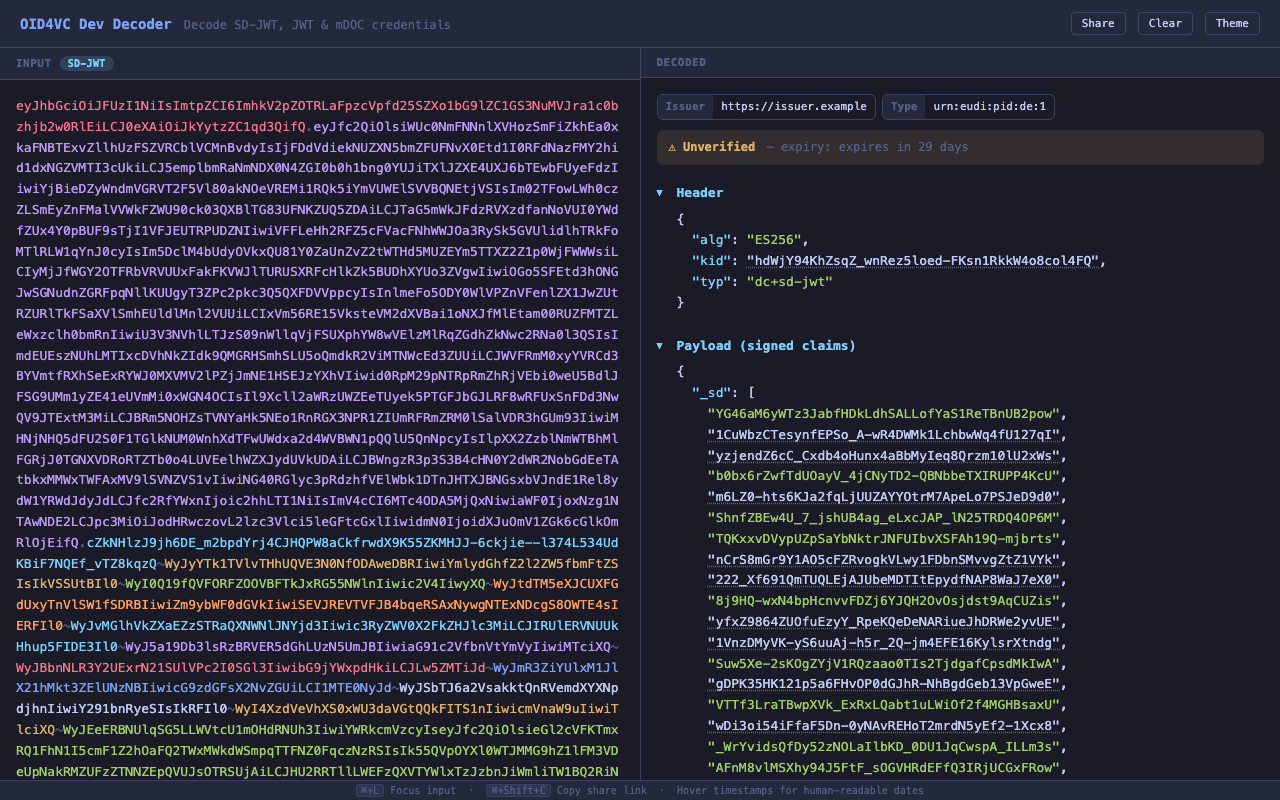
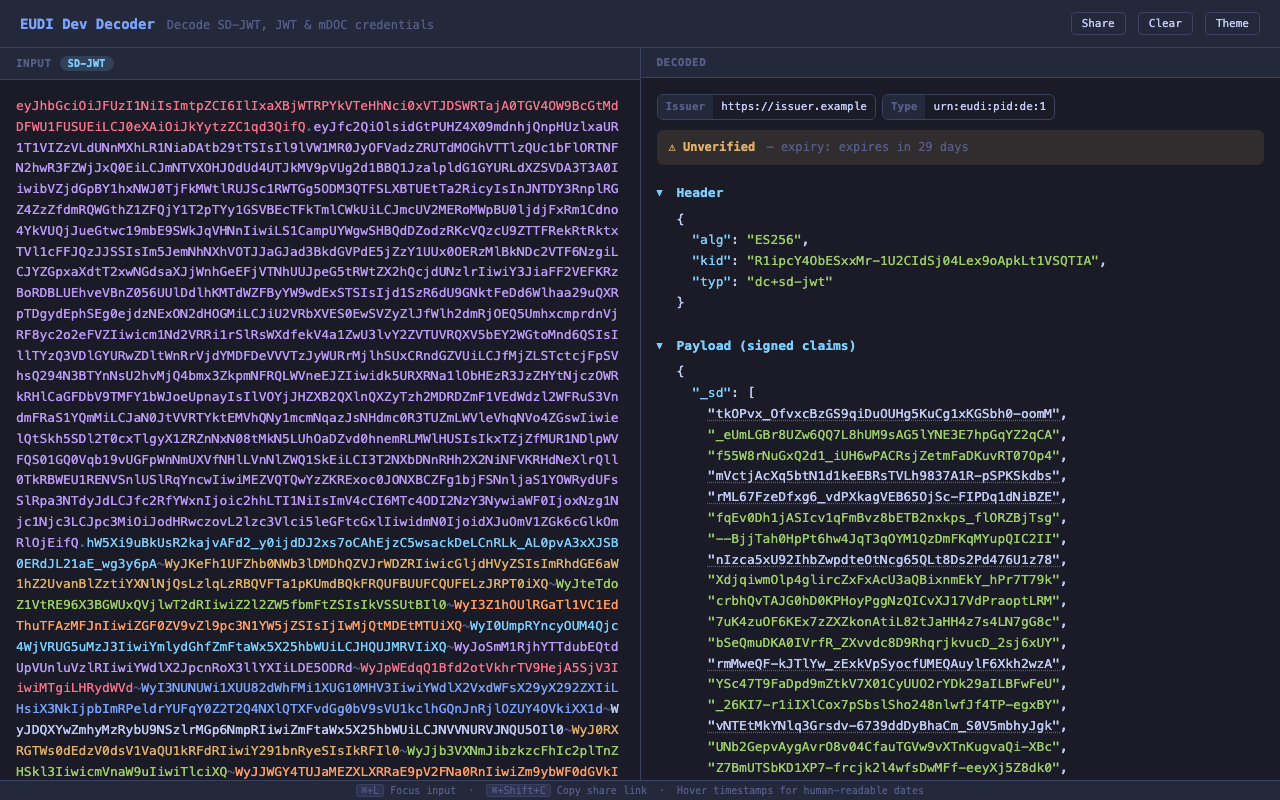
fix: ci tests, doc images, homebrew instructions

diff --git a/internal/web/static/app.js b/internal/web/static/app.js
@@ -29,12 +29,12 @@
   const TIMESTAMP_FIELDS = new Set(["exp", "iat", "nbf", "auth_time", "updated_at"]);
 
   // Theme toggle
-  const savedTheme = localStorage.getItem("oid4vc-dev-theme");
+  const savedTheme = localStorage.getItem("eudi-dev-theme");
   if (savedTheme === "light") document.documentElement.setAttribute("data-theme", "light");
   themeBtn.addEventListener("click", () => {
     const isLight = document.documentElement.getAttribute("data-theme") === "light";
     document.documentElement.setAttribute("data-theme", isLight ? "" : "light");
-    localStorage.setItem("oid4vc-dev-theme", isLight ? "" : "light");
+    localStorage.setItem("eudi-dev-theme", isLight ? "" : "light");
   });
 
   // Clear

diff --git a/internal/wallet/store_test.go b/internal/wallet/store_test.go
@@ -303,12 +303,24 @@ func TestWalletStore_PathHelpers(t *testing.T) {
 }
 
 func TestDefaultWalletDir(t *testing.T) {
+	home := t.TempDir()
+	t.Setenv("HOME", home)
+	t.Setenv("EUDI_DEV_HOME", "")
+	t.Setenv("OID4VC_DEV_HOME", "")
+
+	// Fresh system: the new state directory is used.
 	dir := DefaultWalletDir()
-	if dir == "" {
-		t.Error("expected non-empty dir")
+	if !strings.Contains(dir, ".eudi-dev") || !strings.HasSuffix(dir, "wallet") {
+		t.Errorf("expected .eudi-dev wallet dir, got %s", dir)
 	}
+
+	// A legacy state directory keeps being used after the rename.
+	if err := os.MkdirAll(filepath.Join(home, ".oid4vc-dev"), 0o755); err != nil {
+		t.Fatal(err)
+	}
+	dir = DefaultWalletDir()
 	if !strings.Contains(dir, ".oid4vc-dev") {
-		t.Errorf("expected .oid4vc-dev in path, got %s", dir)
+		t.Errorf("expected legacy .oid4vc-dev fallback, got %s", dir)
 	}
 }
 

diff --git a/CHANGELOG.md b/CHANGELOG.md
@@ -7,6 +7,10 @@ and this project adheres to [Semantic Versioning](https://semver.org/spec/v2.0.0
 
 ## [1.15.0]
 
+### Added
+
+- Homebrew installation: `brew install dominikschlosser/tap/eudi-dev` installs the `eudi` command with shell completion and the `oid4vc-dev` legacy alias. The release workflow updates the tap formula automatically on each tagged release
+
 ### Changed
 
 - The project is renamed from oid4vc-dev to **eudi-dev** and the CLI command is now **`eudi`**. The Go module moved to `github.com/dominikschlosser/eudi-dev`, releases ship `eudi` binaries, the Docker image is `ghcr.io/dominikschlosser/eudi-dev`, and the state directory is `~/.eudi-dev` (`EUDI_DEV_HOME` overrides it). The wallet and decoder UIs are titled EUDI Dev Wallet and EUDI Dev Decoder

diff --git a/README.md b/README.md
@@ -22,6 +22,14 @@ A developer toolkit for the EUDI and OpenID4VC ecosystem. Decode, issue, and pre
 
 ## Install
 
+### Homebrew (macOS and Linux)
+
+```bash
+brew install dominikschlosser/tap/eudi-dev
+```
+
+Installs the `eudi` command with shell completion (plus `oid4vc-dev` as a legacy alias).
+
 ### From GitHub Releases
 
 Download the latest binary for your platform from [Releases](https://github.com/dominikschlosser/eudi-dev/releases).
